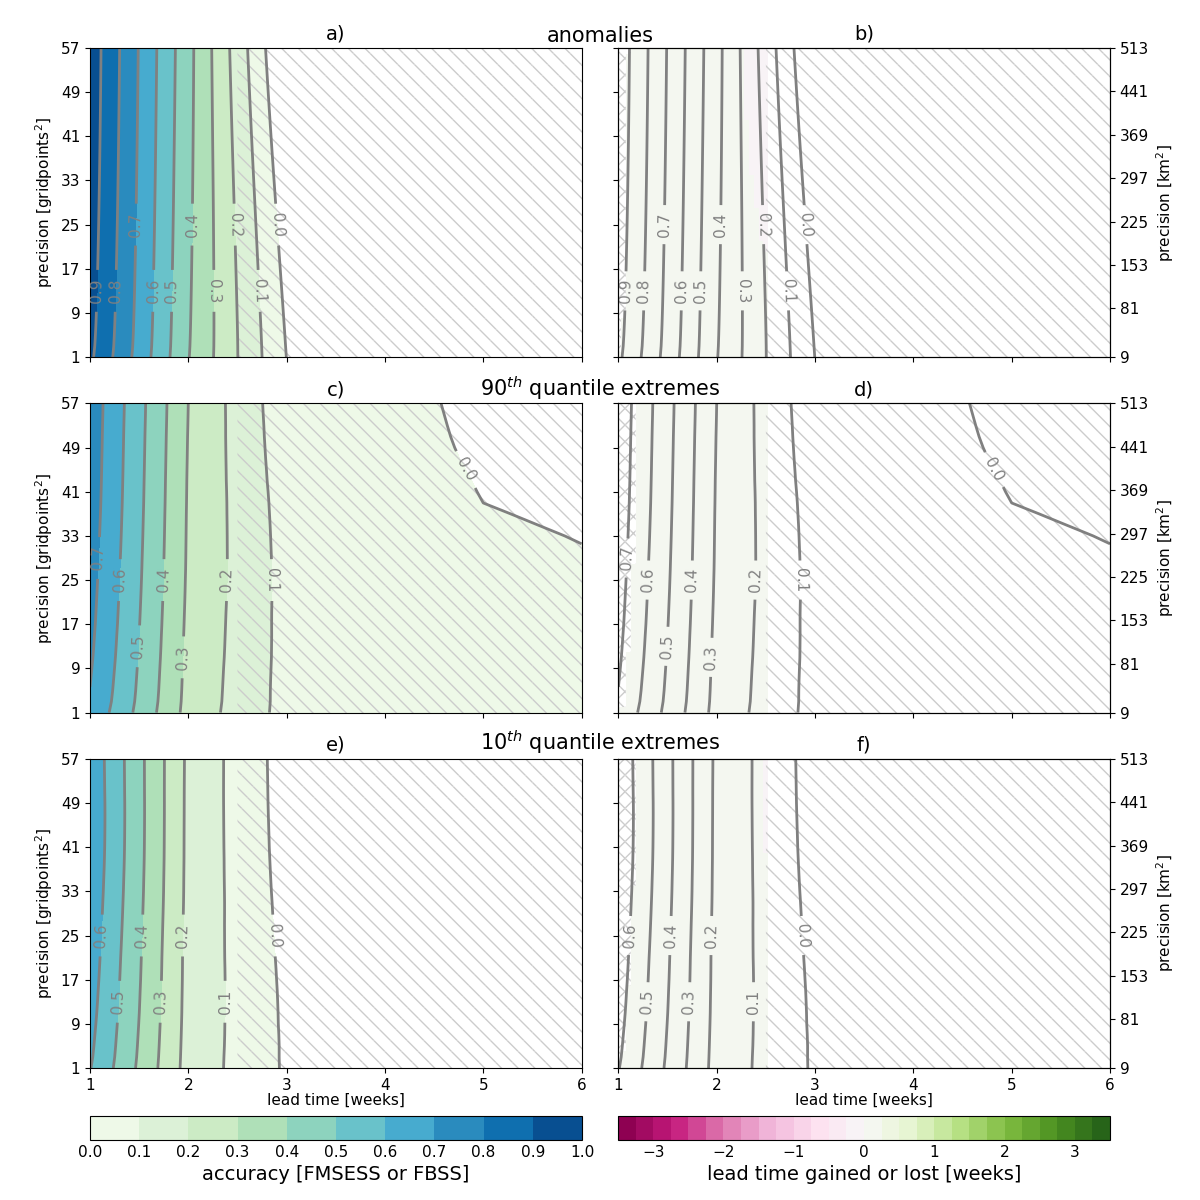
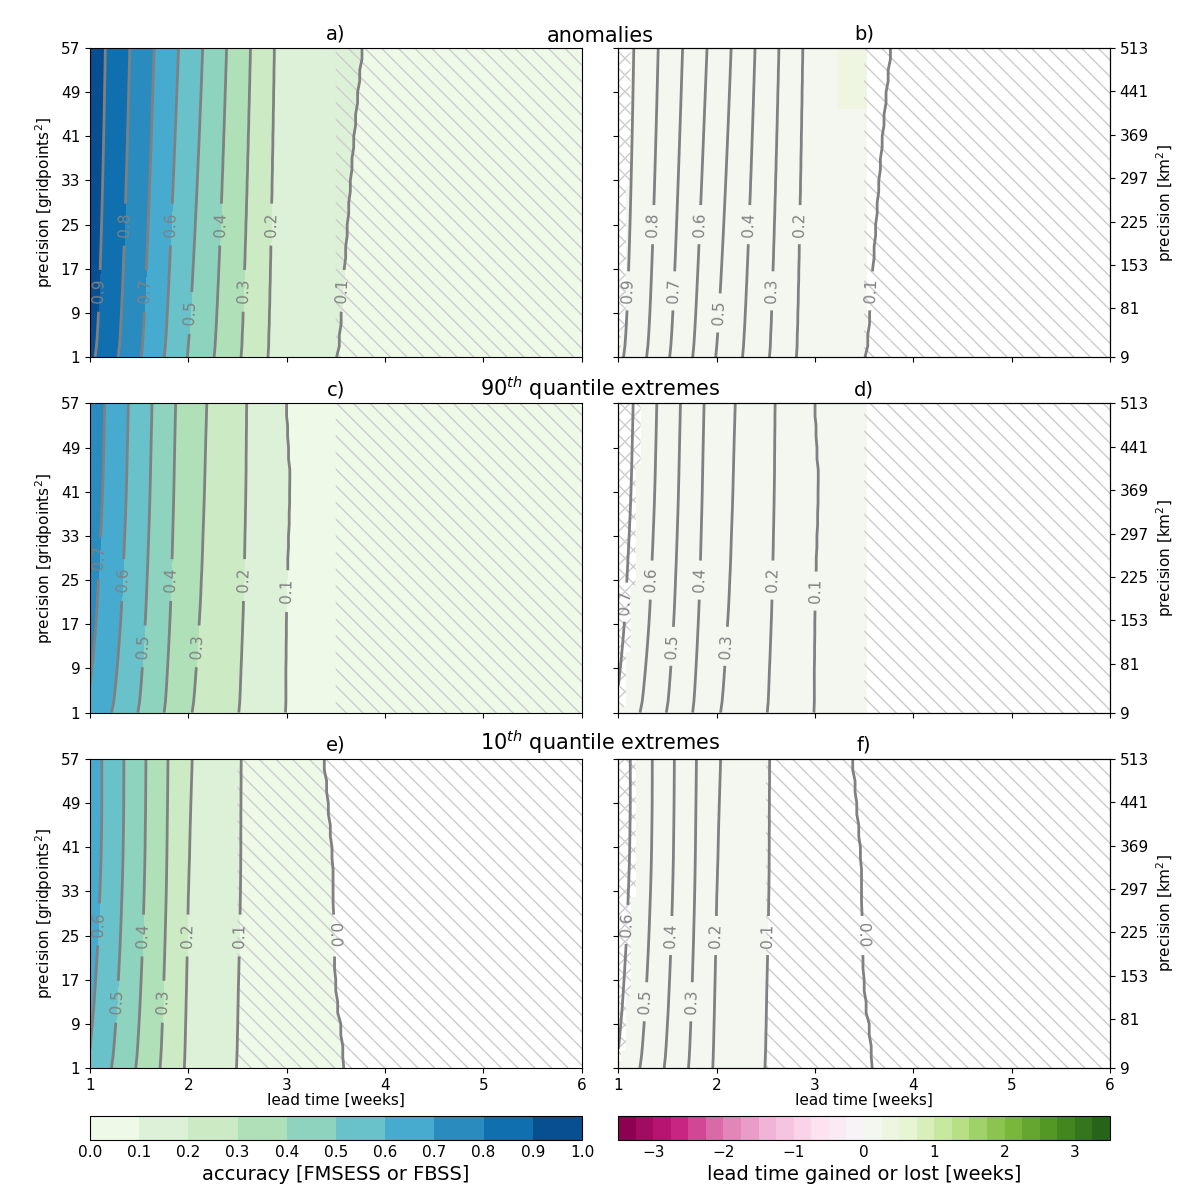
update

diff --git a/code/verify/calc-score-s2s-forecast.py b/code/verify/calc-score-s2s-forecast.py
@@ -26,16 +26,16 @@ from forsikring  import misc,s2s,verify,config
 
 # INPUT -----------------------------------------------
 score_flag               = 'fbss'
-time_flag                = 'daily'                 # daily or weekly
+time_flag                = 'weekly'                 # daily or weekly
 variable                 = 't2m24'                   # tp24,rn24,mx24rn6,mx24tp6,mx24tpr
 domain                   = 'europe'                 # europe or norway only?
 first_forecast_date      = '20200102'               # first initialization date of forecast (either a monday or thursday)
 number_forecasts         = 209                      # number of forecasts 
 season                   = 'annual'                 # pick forecasts in specific season (djf,mam,jja,son,annual)
-grids                    = ['0.25x0.25']
+grids                    = ['0.25x0.25','0.5x0.5']
 box_sizes                = np.arange(1,61,2)        # smoothing box size in grid points per side. Must be odd!
 number_bootstrap         = 10000                    # number of times to shuffle initialization dates for error bars
-pval                     = 0.9
+pval                     = 0.1
 dt                       = 0.05                     # interpolation for lead time gained & max skill calculation
 write2file               = True
 # -----------------------------------------------------
@@ -68,19 +68,21 @@ for grid in grids:
     filename_out        = filename_hr_out if grid == '0.25x0.25' else filename_lr_out
     dim                 = verify.get_data_dimensions(grid, time_flag, domain)
     box_sizes_temp      = verify.match_box_sizes_high_to_low_resolution(grid,box_sizes)
-
+    
     # initialize output arrays
     [score,score_bootstrap,sig] = verify.initialize_misc_arrays(score_flag,dim,box_sizes_temp,number_bootstrap)
     forecast_error              = verify.initialize_error_array(dim,box_sizes_temp,forecast_dates)
     reference_error             = verify.initialize_error_array(dim,box_sizes_temp,forecast_dates)
 
+    #print(box_sizes_temp)
+    
     # loop over forecast dates
     for  i, date in enumerate(forecast_dates):
         print('forecast date: ' + date)
         filename_verification                           = path_in_verification + variable + '_' + grid + '_' + date + '.nc'
         filename_forecast                               = path_in_forecast + variable + '_' + grid + '_' + date + '.nc'
-        forecast_error[i, ...], reference_error[i, ...] = verify.calc_forecast_and_reference_error(score_flag,filename_verification, filename_forecast, variable, box_sizes_temp, pval)
-       
+        forecast_error[i, ...], reference_error[i, ...] = verify.calc_forecast_and_reference_error(score_flag,filename_verification, filename_forecast, variable, box_sizes_temp, grid, pval)
+      
     # calc score with bootstraping over all forecasts  
     score[:,:], score_bootstrap[:,:,:] = verify.calc_score_bootstrap(reference_error, forecast_error, number_bootstrap, box_sizes_temp)
 

diff --git a/forsikring/verify.py b/forsikring/verify.py
@@ -28,8 +28,7 @@ def boxcar_smoother_xy_optimized(box_sizes, da, output_type):
     if (da.dims[-2], da.dims[-1]) != ('latitude', 'longitude'):
         raise ValueError("The last two dimensions of 'da' must be 'latitude' and 'longitude'")
 
-    # Initialize output array
-    smooth_values = np.full((len(box_sizes),) + da.shape, np.nan, dtype='float32')
+    # Initialize output array smooth_values = np.full((len(box_sizes),) + da.shape, np.nan, dtype='float32')
     coords        = {'box_size': box_sizes, **da.coords}
     dims          = ['box_size'] + list(da.dims)
     
@@ -469,14 +468,25 @@ def get_data_dimensions(grid, time_flag, domain):
     return misc.subselect_xy_domain_from_dim(dim, domain, grid)
         
 
-def calc_forecast_and_reference_error(score_type, filename_verification, filename_forecast, variable, box_sizes_temp, pval=0.9):
+def calc_forecast_and_reference_error(score_type, filename_verification, filename_forecast, variable, box_sizes_temp, grid,pval=0.9):
     """
     calculates forecast and reference error for skill scores
     """
     # read data
-    verification          = xr.open_dataset(filename_verification)[variable].sel(box_size=box_sizes_temp)
-    forecast              = xr.open_dataset(filename_forecast)[variable].sel(box_size=box_sizes_temp)
-
+    if grid == '0.25x0.25':
+        forecast              = xr.open_dataset(filename_forecast)[variable].sel(box_size=box_sizes_temp)
+        verification          = xr.open_dataset(filename_verification)[variable].sel(box_size=box_sizes_temp)
+    elif grid == '0.5x0.5':
+        # IMPORANT NOTE: its a bit complicated but here I produce arrays with the same box_size.size as high res data
+        # except its only populated with every other box_size from teh high res data. This means that every other
+        # box_size dim is a repeat of the next. NEED TO FIGURE OUT HOW TO BETTER COMBINE HIGH AND LOW RES FORECAST SKILL
+        # RESULTS!!!!
+        forecast                  = xr.open_dataset(filename_forecast)[variable].sel(box_size=box_sizes_temp,method='nearest')
+        verification              = xr.open_dataset(filename_verification)[variable].sel(box_size=box_sizes_temp,method='nearest')
+        forecast['box_size']      = box_sizes_temp
+        verification['box_size']  = box_sizes_temp
+        
+        
     # calculate error terms
     if score_type == 'fmsess':
         forecast_error_xy  = (forecast - verification) ** 2

diff --git a/code/plot/plot-fig-S4.py b/code/plot/plot-fig-S4.py
@@ -62,9 +62,9 @@ write2file = True
 # define stuff         
 path_in           = config.dirs['verify_s2s_forecast_daily']
 path_out          = config.dirs['fig'] + 'paper/'
-filename_in_1     = 'fmsess_t2m24_weekly_europe_annual_2021-01-04_2021-12-30.nc'
-filename_in_2     = 'fbss_t2m24_pval0.9_weekly_europe_annual_2021-01-04_2021-12-30.nc'
-filename_in_3     = 'fbss_t2m24_pval0.1_weekly_europe_annual_2021-01-04_2021-12-30.nc'
+filename_in_1     = 'fmsess_t2m24_weekly_europe_annual_2020-01-02_2021-12-30.nc'
+filename_in_2     = 'fbss_t2m24_pval0.9_weekly_europe_annual_2020-01-02_2021-12-30.nc'
+filename_in_3     = 'fbss_t2m24_pval0.1_weekly_europe_annual_2020-01-02_2021-12-30.nc'
 figname_out       = 'fig_S4.png'
 
 # read in data
